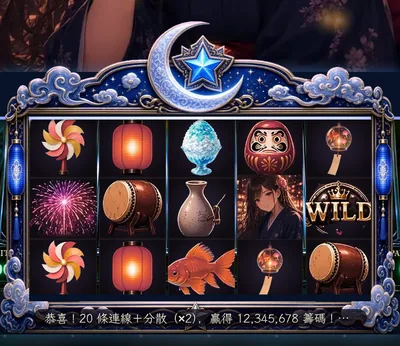
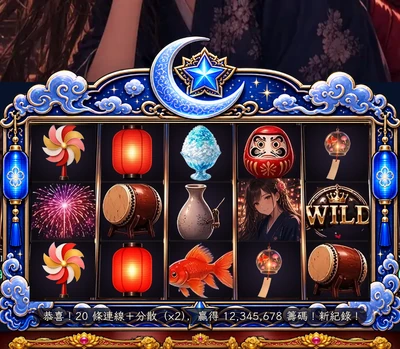
v28.143 真夜中與月光外框改為等比縮放裁切（不拉伸）

diff --git a/sw.js b/sw.js
@@ -1,6 +1,6 @@
 /* 龍運金殿 service worker — v2851 */
-const V='dfp-v28142';
-const CORE=['./','index.html','lobby2840.css?v=28131','lobby2841.css?v=2841','lobby2842.css?v=28133','act2848.css?v=2850','lobby2840.js?v=28133','av2877.css?v=28107','av2877.js?v=28107','assets/lx/bg.webp?v=2841','assets/fonts/lxserif.woff2?v=28117','dsfx.js?v=2854','gal266.css?v=266','gal266.js?v=267','logo262.css?v=264','lobby260.css?v=265','mq257.css?v=258','mq257.js?v=258','offline.html','privacy.html','store.js?v=2854','rm.js?v=256','life.js?v=256','age.js?v=286','settings.js?v=28142','feat28123.css?v=28127','assets/featgold/btn-wide.webp?v=28127','assets/featgold/stage-lip.webp?v=28127','assets/featgold/stage-fill.webp?v=28127','assets/featgold/panel.webp?v=28127','assets/featgold/rail-h.webp?v=28127','lb28111.css?v=28114','lb28111.js?v=28114','assets/lx/medal1.webp?v=28114','assets/lx/medal2.webp?v=28114','assets/lx/medal3.webp?v=28114','nick28112.css?v=28112','nick28112.js?v=28112','chat28117.css?v=28117','chat28117.js?v=28117','assets/chat/ico_horn.webp?v=28117','perf2887.js?v=2888','perf2887.css?v=2887','fx2888.css?v=2888','plaque28109.css?v=28128','bar28110.css?v=28110','ad2880.css?v=2880','ad2880.js?v=28101','menu2880.css?v=2884','menu2880.js?v=2881','deck2883.css?v=2883','deck2884.css?v=28128','deck2885.css?v=2885','deck2886.css?v=28118','assets/deck/skins/gold/btn-round.webp?v=2886','assets/ui/ico-home.svg?v=2884','assets/ui/ico-menu.svg?v=2884','assets/deck/skins/gold/frame.webp?v=2887','assets/deck/skins/gold/fill.webp?v=2884','assets/deck/skins/gold/crest.webp?v=2887','assets/deck/skins/gold/plaque.webp?v=2887','assets/deck/skins/gold/plaque-bet.webp?v=28128','toast2873.css?v=28115','ach2874.css?v=2898','ach2874.js?v=2882','assets/lx/ach_spin.svg?v=2875','assets/lx/ach_win.svg?v=2875','assets/lx/ach_mach.svg?v=2875','assets/lx/ach_feat.svg?v=2875','assets/lx/ach_lv.svg?v=2875','assets/lx/ach_frame.svg?v=2875','assets/lx/ach_ring.svg?v=2875','dfpvol.css?v=2854','dfpvol.js?v=2854','skinshop.css?v=2865','frame.css?v=2839','frame2844.css?v=2844','frame2846.css?v=2846','frame28134.css?v=28142','sym2847.css?v=2847','skinshop.js?v=28142','load285.css?v=285','load286.css?v=286','load287.css?v=287','load288.css?v=288','load289.css?v=289','load2810.css?v=2810','load2811.css?v=2811','juice.css?v=2859','juice.js?v=28116','featsfx.js?v=28120','amb2851.css?v=2851','amb2851.js?v=2888','tap272.css?v=272','hint.js?v=2840','social2826.css?v=28102','fb2868.js?v=28117','social2826.js?v=28112','week2827.css?v=28100','week2827.js?v=28100','inv2828.css?v=2891','inv2828.js?v=2891','raid2829.css?v=2882','raid2829.js?v=2882','guild2833.css?v=2869','guild2833.js?v=2882','share2832.css?v=2832','share2832.js?v=2832','back.js?v=256','manifest.webmanifest','assets/fx/tw-plaque.webp?v=2858','assets/logo21.webp','assets/lobby/logo22.webp?v=256','assets/lobby/logo22_soft.webp?v=287','assets/og287.webp?v=287','assets/lobby/navbar.webp?v=256','assets/lobby/medal.webp?v=256','assets/icons/icon-192.png','assets/lobby/bg.webp?v=256','matsuri-ui.css?v=28135','samurai-ui.css?v=28135','neko-ui.css?v=28135','sakura-ui.css?v=28135','matsuri-game.js?v=28134','samurai-game.js?v=28134','neko-game.js?v=28134','sakura-game.js?v=28134','feat.css?v=28129','feat.js?v=28129','assets/featgold/plinko/plq-sakura-100.webp?v=28129','assets/featgold/plinko/plq-sakura-25.webp?v=28129','assets/featgold/plinko/plq-sakura-8.webp?v=28129','assets/featgold/plinko/plq-sakura-low.webp?v=28129','assets/featgold/plinko/plq-neko-100.webp?v=28129','assets/featgold/plinko/plq-neko-25.webp?v=28129','assets/featgold/plinko/plq-neko-8.webp?v=28129','assets/featgold/plinko/plq-neko-low.webp?v=28129','assets/featgold/plinko/plq-samurai-100.webp?v=28129','assets/featgold/plinko/plq-samurai-25.webp?v=28129','assets/featgold/plinko/plq-samurai-8.webp?v=28129','assets/featgold/plinko/plq-samurai-low.webp?v=28129','assets/featgold/plinko/plq-matsuri-100.webp?v=28129','assets/featgold/plinko/plq-matsuri-25.webp?v=28129','assets/featgold/plinko/plq-matsuri-8.webp?v=28129','assets/featgold/plinko/plq-matsuri-low.webp?v=28129','assets/reelbg/bg-sakura.webp?v=28130','assets/reelbg/bg-neko.webp?v=28130','assets/reelbg/bg-samurai.webp?v=28130','assets/reelbg/bg-matsuri.webp?v=28130','assets/reelbg/frame-sakura.webp?v=28135','assets/reelbg/frame-neko.webp?v=28135','assets/reelbg/frame-samurai.webp?v=28135','assets/reelbg/frame-matsuri.webp?v=28135'];
+const V='dfp-v28143';
+const CORE=['./','index.html','lobby2840.css?v=28131','lobby2841.css?v=2841','lobby2842.css?v=28133','act2848.css?v=2850','lobby2840.js?v=28133','av2877.css?v=28107','av2877.js?v=28107','assets/lx/bg.webp?v=2841','assets/fonts/lxserif.woff2?v=28117','dsfx.js?v=2854','gal266.css?v=266','gal266.js?v=267','logo262.css?v=264','lobby260.css?v=265','mq257.css?v=258','mq257.js?v=258','offline.html','privacy.html','store.js?v=2854','rm.js?v=256','life.js?v=256','age.js?v=286','settings.js?v=28143','feat28123.css?v=28127','assets/featgold/btn-wide.webp?v=28127','assets/featgold/stage-lip.webp?v=28127','assets/featgold/stage-fill.webp?v=28127','assets/featgold/panel.webp?v=28127','assets/featgold/rail-h.webp?v=28127','lb28111.css?v=28114','lb28111.js?v=28114','assets/lx/medal1.webp?v=28114','assets/lx/medal2.webp?v=28114','assets/lx/medal3.webp?v=28114','nick28112.css?v=28112','nick28112.js?v=28112','chat28117.css?v=28117','chat28117.js?v=28117','assets/chat/ico_horn.webp?v=28117','perf2887.js?v=2888','perf2887.css?v=2887','fx2888.css?v=2888','plaque28109.css?v=28128','bar28110.css?v=28110','ad2880.css?v=2880','ad2880.js?v=28101','menu2880.css?v=2884','menu2880.js?v=2881','deck2883.css?v=2883','deck2884.css?v=28128','deck2885.css?v=2885','deck2886.css?v=28118','assets/deck/skins/gold/btn-round.webp?v=2886','assets/ui/ico-home.svg?v=2884','assets/ui/ico-menu.svg?v=2884','assets/deck/skins/gold/frame.webp?v=2887','assets/deck/skins/gold/fill.webp?v=2884','assets/deck/skins/gold/crest.webp?v=2887','assets/deck/skins/gold/plaque.webp?v=2887','assets/deck/skins/gold/plaque-bet.webp?v=28128','toast2873.css?v=28115','ach2874.css?v=2898','ach2874.js?v=2882','assets/lx/ach_spin.svg?v=2875','assets/lx/ach_win.svg?v=2875','assets/lx/ach_mach.svg?v=2875','assets/lx/ach_feat.svg?v=2875','assets/lx/ach_lv.svg?v=2875','assets/lx/ach_frame.svg?v=2875','assets/lx/ach_ring.svg?v=2875','dfpvol.css?v=2854','dfpvol.js?v=2854','skinshop.css?v=2865','frame.css?v=2839','frame2844.css?v=2844','frame2846.css?v=2846','frame28134.css?v=28143','sym2847.css?v=2847','skinshop.js?v=28143','load285.css?v=285','load286.css?v=286','load287.css?v=287','load288.css?v=288','load289.css?v=289','load2810.css?v=2810','load2811.css?v=2811','juice.css?v=2859','juice.js?v=28116','featsfx.js?v=28120','amb2851.css?v=2851','amb2851.js?v=2888','tap272.css?v=272','hint.js?v=2840','social2826.css?v=28102','fb2868.js?v=28117','social2826.js?v=28112','week2827.css?v=28100','week2827.js?v=28100','inv2828.css?v=2891','inv2828.js?v=2891','raid2829.css?v=2882','raid2829.js?v=2882','guild2833.css?v=2869','guild2833.js?v=2882','share2832.css?v=2832','share2832.js?v=2832','back.js?v=256','manifest.webmanifest','assets/fx/tw-plaque.webp?v=2858','assets/logo21.webp','assets/lobby/logo22.webp?v=256','assets/lobby/logo22_soft.webp?v=287','assets/og287.webp?v=287','assets/lobby/navbar.webp?v=256','assets/lobby/medal.webp?v=256','assets/icons/icon-192.png','assets/lobby/bg.webp?v=256','matsuri-ui.css?v=28135','samurai-ui.css?v=28135','neko-ui.css?v=28135','sakura-ui.css?v=28135','matsuri-game.js?v=28134','samurai-game.js?v=28134','neko-game.js?v=28134','sakura-game.js?v=28134','feat.css?v=28129','feat.js?v=28129','assets/featgold/plinko/plq-sakura-100.webp?v=28129','assets/featgold/plinko/plq-sakura-25.webp?v=28129','assets/featgold/plinko/plq-sakura-8.webp?v=28129','assets/featgold/plinko/plq-sakura-low.webp?v=28129','assets/featgold/plinko/plq-neko-100.webp?v=28129','assets/featgold/plinko/plq-neko-25.webp?v=28129','assets/featgold/plinko/plq-neko-8.webp?v=28129','assets/featgold/plinko/plq-neko-low.webp?v=28129','assets/featgold/plinko/plq-samurai-100.webp?v=28129','assets/featgold/plinko/plq-samurai-25.webp?v=28129','assets/featgold/plinko/plq-samurai-8.webp?v=28129','assets/featgold/plinko/plq-samurai-low.webp?v=28129','assets/featgold/plinko/plq-matsuri-100.webp?v=28129','assets/featgold/plinko/plq-matsuri-25.webp?v=28129','assets/featgold/plinko/plq-matsuri-8.webp?v=28129','assets/featgold/plinko/plq-matsuri-low.webp?v=28129','assets/reelbg/bg-sakura.webp?v=28130','assets/reelbg/bg-neko.webp?v=28130','assets/reelbg/bg-samurai.webp?v=28130','assets/reelbg/bg-matsuri.webp?v=28130','assets/reelbg/frame-sakura.webp?v=28135','assets/reelbg/frame-neko.webp?v=28135','assets/reelbg/frame-samurai.webp?v=28135','assets/reelbg/frame-matsuri.webp?v=28135'];
 self.addEventListener('install',e=>{e.waitUntil(caches.open(V).then(c=>c.addAll(CORE)).then(()=>self.skipWaiting()))});
 self.addEventListener('activate',e=>{e.waitUntil(caches.keys().then(ks=>Promise.all(ks.filter(k=>k.startsWith('dfp-')&&k!==V).map(k=>caches.delete(k)))).then(()=>self.clients.claim()))});
 self.addEventListener('fetch',e=>{

diff --git a/matsuri.html b/matsuri.html
@@ -100,6 +100,6 @@ document.addEventListener('click',e=>{if(document.body.classList.contains('menu1
 $('menu16').addEventListener('click',e=>{if(e.target.closest('button')&&!e.target.closest('#soundBtn')&&!e.target.closest('.dfpVol')&&!e.target.closest('#setBtn')&&!e.target.closest('#vibBtn')&&!e.target.closest('#rmBtn')){document.body.classList.remove('menu16');mb.setAttribute('aria-expanded',false)}});
 const fit=el=>{const l=String(el.textContent).length;if(el.dataset.l!=l)el.dataset.l=l};['bal','win'].forEach(id=>{const el=$(id);fit(el);new MutationObserver(()=>fit(el)).observe(el,{childList:true,characterData:true,subtree:true})})})()</script><script>window.CZM={"id": "matsuri", "name": "夏祭花火", "buy": 15.5, "rtp": 94.02, "buyRtp": 93.75, "fsm": 2}</script><script>CZM.who="夏美";CZM.voice={"yokoku": ["煙火好像要升空了…！", "祭典的預感！"], "reach": ["機會來了！金魚拜託了！", "就差一個！"], "hot": ["大煙火要來了！！", "祭典要高潮了！"], "win": ["好美的煙火〜！", "太好了！"], "lose": ["期待下一發煙火！", "好可惜〜"], "kakutei": ["大獎煙火，確定！！"]}</script><script src="casino.js?v=28122"></script><script src="gallery.js?v=2897"></script><script src="minigame.js?v=2815"></script><script src="enshutsu.js?v=2853"></script><script src="czaudio.js?v=28116"></script><script src="featsfx.js?v=28120"></script><script src="czfit.js?v=2888"></script><link rel="stylesheet" href="juice.css?v=2859"><script src="juice.js?v=28116"></script><link rel="stylesheet" href="amb2851.css?v=2851"><script src="amb2851.js?v=2888"></script><link rel="stylesheet" href="holdspin.css?v=2823"><script src="holdspin.js?v=28127"></script><link rel="stylesheet" href="av.css?v=2863"><script src="av.js?v=28116"></script><link rel="stylesheet" href="feat.css?v=28129"><script src="fxlite.js?v=28121"></script><script src="feat.js?v=28129"></script><link rel="stylesheet" href="life21.css?v=256"><link rel="stylesheet" href="ui21.css?v=256"><script src="ui21.js?v=28116"></script><link rel="stylesheet" href="win21.css?v=2814"><script src="win21.js?v=2888"></script><link rel="stylesheet" href="bonus22.css?v=2814"><script src="bonus22.js?v=28127"></script><link rel="stylesheet" href="reel21.css?v=2865">
 <link rel="stylesheet" href="holdspin2813.css?v=2813"><link rel="stylesheet" href="holdspin2814.css?v=2814"><link rel="stylesheet" href="holdspin2816.css?v=2816"><link rel="stylesheet" href="holdspin2817.css?v=2817"><link rel="stylesheet" href="holdspin2818.css?v=2818"><link rel="stylesheet" href="fxlite.css?v=28121">
-<link rel="stylesheet" href="feat28123.css?v=28127"><link rel="preload" as="image" href="assets/featgold/stage-lip.webp?v=28127" type="image/webp"><link rel="preload" as="image" href="assets/featgold/stage-fill.webp?v=28127" type="image/webp"><link rel="preload" as="image" href="assets/featgold/panel.webp?v=28127" type="image/webp"><link rel="preload" as="image" href="assets/featgold/btn-wide.webp?v=28127" type="image/webp"><link rel="preload" as="image" href="assets/featgold/plinko/plq-matsuri-100.webp?v=28129" type="image/webp"><link rel="preload" as="image" href="assets/featgold/plinko/plq-matsuri-25.webp?v=28129" type="image/webp"><link rel="preload" as="image" href="assets/featgold/plinko/plq-matsuri-8.webp?v=28129" type="image/webp"><link rel="preload" as="image" href="assets/featgold/plinko/plq-matsuri-low.webp?v=28129" type="image/webp"><script src="reel21.js?v=2823"></script><link rel="stylesheet" href="pose21.css?v=256"><script src="pose21.js?v=256"></script><link rel="stylesheet" href="bolt22.css?v=281"><script src="bolt22.js?v=2888"></script><link rel="stylesheet" href="skinshop.css?v=2865"><link rel="stylesheet" href="frame.css?v=2839"><link rel="stylesheet" href="frame2844.css?v=2844"><link rel="stylesheet" href="frame2846.css?v=2846"><link rel="stylesheet" href="frame28134.css?v=28142"><link rel="stylesheet" href="sym2847.css?v=2847"><script src="skinshop.js?v=28142"></script><link rel="stylesheet" href="dfpvol.css?v=2854"><script src="dfpvol.js?v=2854"></script><script src="settings.js?v=28142"></script><script src="ad2880.js?v=28101"></script><script src="menu2880.js?v=2881"></script><script src="lowbal.js?v=2880"></script><link rel="stylesheet" href="share2832.css?v=2832"><script src="share2832.js?v=2832"></script>
+<link rel="stylesheet" href="feat28123.css?v=28127"><link rel="preload" as="image" href="assets/featgold/stage-lip.webp?v=28127" type="image/webp"><link rel="preload" as="image" href="assets/featgold/stage-fill.webp?v=28127" type="image/webp"><link rel="preload" as="image" href="assets/featgold/panel.webp?v=28127" type="image/webp"><link rel="preload" as="image" href="assets/featgold/btn-wide.webp?v=28127" type="image/webp"><link rel="preload" as="image" href="assets/featgold/plinko/plq-matsuri-100.webp?v=28129" type="image/webp"><link rel="preload" as="image" href="assets/featgold/plinko/plq-matsuri-25.webp?v=28129" type="image/webp"><link rel="preload" as="image" href="assets/featgold/plinko/plq-matsuri-8.webp?v=28129" type="image/webp"><link rel="preload" as="image" href="assets/featgold/plinko/plq-matsuri-low.webp?v=28129" type="image/webp"><script src="reel21.js?v=2823"></script><link rel="stylesheet" href="pose21.css?v=256"><script src="pose21.js?v=256"></script><link rel="stylesheet" href="bolt22.css?v=281"><script src="bolt22.js?v=2888"></script><link rel="stylesheet" href="skinshop.css?v=2865"><link rel="stylesheet" href="frame.css?v=2839"><link rel="stylesheet" href="frame2844.css?v=2844"><link rel="stylesheet" href="frame2846.css?v=2846"><link rel="stylesheet" href="frame28134.css?v=28143"><link rel="stylesheet" href="sym2847.css?v=2847"><script src="skinshop.js?v=28143"></script><link rel="stylesheet" href="dfpvol.css?v=2854"><script src="dfpvol.js?v=2854"></script><script src="settings.js?v=28143"></script><script src="ad2880.js?v=28101"></script><script src="menu2880.js?v=2881"></script><script src="lowbal.js?v=2880"></script><link rel="stylesheet" href="share2832.css?v=2832"><script src="share2832.js?v=2832"></script>
 <script src="nick28112.js?v=28112"></script><link rel="stylesheet" href="tap272.css?v=272"><link rel="stylesheet" href="perf2887.css?v=2887"><link rel="stylesheet" href="fx2888.css?v=28108"><link rel="stylesheet" href="plaque28109.css?v=28128"><link rel="stylesheet" href="bar28110.css?v=28110">
 <script>if("serviceWorker"in navigator)addEventListener("load",function(){navigator.serviceWorker.register("sw.js").catch(function(){})})</script></body></html>

diff --git a/samurai.html b/samurai.html
@@ -101,6 +101,6 @@ document.addEventListener('click',e=>{if(document.body.classList.contains('menu1
 $('menu16').addEventListener('click',e=>{if(e.target.closest('button')&&!e.target.closest('#soundBtn')&&!e.target.closest('.dfpVol')&&!e.target.closest('#setBtn')&&!e.target.closest('#vibBtn')&&!e.target.closest('#rmBtn')){document.body.classList.remove('menu16');mb.setAttribute('aria-expanded',false)}});
 const fit=el=>{const l=String(el.textContent).length;if(el.dataset.l!=l)el.dataset.l=l};['bal','win'].forEach(id=>{const el=$(id);fit(el);new MutationObserver(()=>fit(el)).observe(el,{childList:true,characterData:true,subtree:true})})})()</script><script>window.CZM={"id": "samurai", "name": "天下布武", "buy": 21.3, "rtp": 93.94, "buyRtp": 94.16, "fsm": 3}</script><script>CZM.who="信長";CZM.voice={"yokoku": ["…有種預感", "風向變了"], "reach": ["機會來了！斬開血路！", "再一刀！"], "hot": ["天下就在眼前！！", "氣勢上來了！"], "win": ["見事！", "高呼勝利吧！"], "lose": ["尚未結束", "準備下一場戰鬥"], "kakutei": ["天下布武、確定！！"]}</script><script src="casino.js?v=28122"></script><script src="gallery.js?v=2897"></script><script src="minigame.js?v=2815"></script><script src="enshutsu.js?v=2853"></script><script src="czaudio.js?v=28116"></script><script src="featsfx.js?v=28120"></script><script src="czfit.js?v=2888"></script><link rel="stylesheet" href="juice.css?v=2859"><script src="juice.js?v=28116"></script><link rel="stylesheet" href="amb2851.css?v=2851"><script src="amb2851.js?v=2888"></script><link rel="stylesheet" href="holdspin.css?v=2823"><script src="holdspin.js?v=28127"></script><link rel="stylesheet" href="av.css?v=2863"><script src="av.js?v=28116"></script><link rel="stylesheet" href="feat.css?v=28129"><script src="fxlite.js?v=28121"></script><script src="feat.js?v=28129"></script><link rel="stylesheet" href="life21.css?v=256"><link rel="stylesheet" href="ui21.css?v=256"><script src="ui21.js?v=28116"></script><link rel="stylesheet" href="win21.css?v=2814"><script src="win21.js?v=2888"></script><link rel="stylesheet" href="bonus22.css?v=2814"><script src="bonus22.js?v=28127"></script><link rel="stylesheet" href="reel21.css?v=2865">
 <link rel="stylesheet" href="holdspin2813.css?v=2813"><link rel="stylesheet" href="holdspin2814.css?v=2814"><link rel="stylesheet" href="holdspin2816.css?v=2816"><link rel="stylesheet" href="holdspin2817.css?v=2817"><link rel="stylesheet" href="holdspin2818.css?v=2818"><link rel="stylesheet" href="fxlite.css?v=28121">
-<link rel="stylesheet" href="feat28123.css?v=28127"><link rel="preload" as="image" href="assets/featgold/stage-lip.webp?v=28127" type="image/webp"><link rel="preload" as="image" href="assets/featgold/stage-fill.webp?v=28127" type="image/webp"><link rel="preload" as="image" href="assets/featgold/panel.webp?v=28127" type="image/webp"><link rel="preload" as="image" href="assets/featgold/btn-wide.webp?v=28127" type="image/webp"><link rel="preload" as="image" href="assets/featgold/plinko/plq-samurai-100.webp?v=28129" type="image/webp"><link rel="preload" as="image" href="assets/featgold/plinko/plq-samurai-25.webp?v=28129" type="image/webp"><link rel="preload" as="image" href="assets/featgold/plinko/plq-samurai-8.webp?v=28129" type="image/webp"><link rel="preload" as="image" href="assets/featgold/plinko/plq-samurai-low.webp?v=28129" type="image/webp"><script src="reel21.js?v=2823"></script><link rel="stylesheet" href="pose21.css?v=256"><script src="pose21.js?v=256"></script><link rel="stylesheet" href="bolt22.css?v=281"><script src="bolt22.js?v=2888"></script><link rel="stylesheet" href="skinshop.css?v=2865"><link rel="stylesheet" href="frame.css?v=2839"><link rel="stylesheet" href="frame2844.css?v=2844"><link rel="stylesheet" href="frame2846.css?v=2846"><link rel="stylesheet" href="frame28134.css?v=28142"><link rel="stylesheet" href="sym2847.css?v=2847"><script src="skinshop.js?v=28142"></script><link rel="stylesheet" href="dfpvol.css?v=2854"><script src="dfpvol.js?v=2854"></script><script src="settings.js?v=28142"></script><script src="ad2880.js?v=28101"></script><script src="menu2880.js?v=2881"></script><script src="lowbal.js?v=2880"></script><link rel="stylesheet" href="share2832.css?v=2832"><script src="share2832.js?v=2832"></script>
+<link rel="stylesheet" href="feat28123.css?v=28127"><link rel="preload" as="image" href="assets/featgold/stage-lip.webp?v=28127" type="image/webp"><link rel="preload" as="image" href="assets/featgold/stage-fill.webp?v=28127" type="image/webp"><link rel="preload" as="image" href="assets/featgold/panel.webp?v=28127" type="image/webp"><link rel="preload" as="image" href="assets/featgold/btn-wide.webp?v=28127" type="image/webp"><link rel="preload" as="image" href="assets/featgold/plinko/plq-samurai-100.webp?v=28129" type="image/webp"><link rel="preload" as="image" href="assets/featgold/plinko/plq-samurai-25.webp?v=28129" type="image/webp"><link rel="preload" as="image" href="assets/featgold/plinko/plq-samurai-8.webp?v=28129" type="image/webp"><link rel="preload" as="image" href="assets/featgold/plinko/plq-samurai-low.webp?v=28129" type="image/webp"><script src="reel21.js?v=2823"></script><link rel="stylesheet" href="pose21.css?v=256"><script src="pose21.js?v=256"></script><link rel="stylesheet" href="bolt22.css?v=281"><script src="bolt22.js?v=2888"></script><link rel="stylesheet" href="skinshop.css?v=2865"><link rel="stylesheet" href="frame.css?v=2839"><link rel="stylesheet" href="frame2844.css?v=2844"><link rel="stylesheet" href="frame2846.css?v=2846"><link rel="stylesheet" href="frame28134.css?v=28143"><link rel="stylesheet" href="sym2847.css?v=2847"><script src="skinshop.js?v=28143"></script><link rel="stylesheet" href="dfpvol.css?v=2854"><script src="dfpvol.js?v=2854"></script><script src="settings.js?v=28143"></script><script src="ad2880.js?v=28101"></script><script src="menu2880.js?v=2881"></script><script src="lowbal.js?v=2880"></script><link rel="stylesheet" href="share2832.css?v=2832"><script src="share2832.js?v=2832"></script>
 <script src="nick28112.js?v=28112"></script><link rel="stylesheet" href="tap272.css?v=272"><link rel="stylesheet" href="perf2887.css?v=2887"><link rel="stylesheet" href="fx2888.css?v=28108"><link rel="stylesheet" href="plaque28109.css?v=28128"><link rel="stylesheet" href="bar28110.css?v=28110">
 <script>if("serviceWorker"in navigator)addEventListener("load",function(){navigator.serviceWorker.register("sw.js").catch(function(){})})</script></body></html>

diff --git a/sakura.html b/sakura.html
@@ -101,6 +101,6 @@ document.addEventListener('click',e=>{if(document.body.classList.contains('menu1
 $('menu16').addEventListener('click',e=>{if(e.target.closest('button')&&!e.target.closest('#soundBtn')&&!e.target.closest('.dfpVol')&&!e.target.closest('#setBtn')&&!e.target.closest('#vibBtn')&&!e.target.closest('#rmBtn')){document.body.classList.remove('menu16');mb.setAttribute('aria-expanded',false)}});
 const fit=el=>{const l=String(el.textContent).length;if(el.dataset.l!=l)el.dataset.l=l};['bal','win'].forEach(id=>{const el=$(id);fit(el);new MutationObserver(()=>fit(el)).observe(el,{childList:true,characterData:true,subtree:true})})})()</script><script>window.CZM={"id": "sakura", "name": "櫻花斬", "buy": 21.5, "rtp": 94.06, "buyRtp": 94.2, "fsm": 3}</script><script>CZM.who="櫻";CZM.voice={"yokoku": ["…櫻花在騷動", "出刀的時刻到了"], "reach": ["機會來了！一閃定勝負！", "就差一個…！"], "hot": ["繚亂之刻！！", "這一刀賭上一切！"], "win": ["斬斷了！", "漂亮的一閃"], "lose": ["還不會凋零", "下次一定斬"], "kakutei": ["櫻花斬、確定！！"]}</script><script src="casino.js?v=28122"></script><script src="gallery.js?v=2897"></script><script src="minigame.js?v=2815"></script><script src="enshutsu.js?v=2853"></script><script src="czaudio.js?v=28116"></script><script src="featsfx.js?v=28120"></script><script src="czfit.js?v=2888"></script><link rel="stylesheet" href="juice.css?v=2859"><script src="juice.js?v=28116"></script><link rel="stylesheet" href="amb2851.css?v=2851"><script src="amb2851.js?v=2888"></script><link rel="stylesheet" href="holdspin.css?v=2823"><script src="holdspin.js?v=28127"></script><link rel="stylesheet" href="av.css?v=2863"><script src="av.js?v=28116"></script><link rel="stylesheet" href="feat.css?v=28129"><script src="fxlite.js?v=28121"></script><script src="feat.js?v=28129"></script><link rel="stylesheet" href="life21.css?v=256"><link rel="stylesheet" href="ui21.css?v=256"><script src="ui21.js?v=28116"></script><link rel="stylesheet" href="win21.css?v=2814"><script src="win21.js?v=2888"></script><link rel="stylesheet" href="bonus22.css?v=2814"><script src="bonus22.js?v=28127"></script><link rel="stylesheet" href="reel21.css?v=2865">
 <link rel="stylesheet" href="holdspin2813.css?v=2813"><link rel="stylesheet" href="holdspin2814.css?v=2814"><link rel="stylesheet" href="holdspin2816.css?v=2816"><link rel="stylesheet" href="holdspin2817.css?v=2817"><link rel="stylesheet" href="holdspin2818.css?v=2818"><link rel="stylesheet" href="fxlite.css?v=28121">
-<link rel="stylesheet" href="feat28123.css?v=28127"><link rel="preload" as="image" href="assets/featgold/stage-lip.webp?v=28127" type="image/webp"><link rel="preload" as="image" href="assets/featgold/stage-fill.webp?v=28127" type="image/webp"><link rel="preload" as="image" href="assets/featgold/panel.webp?v=28127" type="image/webp"><link rel="preload" as="image" href="assets/featgold/btn-wide.webp?v=28127" type="image/webp"><link rel="preload" as="image" href="assets/featgold/plinko/plq-sakura-100.webp?v=28129" type="image/webp"><link rel="preload" as="image" href="assets/featgold/plinko/plq-sakura-25.webp?v=28129" type="image/webp"><link rel="preload" as="image" href="assets/featgold/plinko/plq-sakura-8.webp?v=28129" type="image/webp"><link rel="preload" as="image" href="assets/featgold/plinko/plq-sakura-low.webp?v=28129" type="image/webp"><script src="reel21.js?v=2823"></script><link rel="stylesheet" href="pose21.css?v=256"><script src="pose21.js?v=256"></script><link rel="stylesheet" href="bolt22.css?v=281"><script src="bolt22.js?v=2888"></script><link rel="stylesheet" href="skinshop.css?v=2865"><link rel="stylesheet" href="frame.css?v=2839"><link rel="stylesheet" href="frame2844.css?v=2844"><link rel="stylesheet" href="frame2846.css?v=2846"><link rel="stylesheet" href="frame28134.css?v=28142"><link rel="stylesheet" href="sym2847.css?v=2847"><script src="skinshop.js?v=28142"></script><link rel="stylesheet" href="dfpvol.css?v=2854"><script src="dfpvol.js?v=2854"></script><script src="settings.js?v=28142"></script><script src="ad2880.js?v=28101"></script><script src="menu2880.js?v=2881"></script><script src="lowbal.js?v=2880"></script><link rel="stylesheet" href="share2832.css?v=2832"><script src="share2832.js?v=2832"></script>
+<link rel="stylesheet" href="feat28123.css?v=28127"><link rel="preload" as="image" href="assets/featgold/stage-lip.webp?v=28127" type="image/webp"><link rel="preload" as="image" href="assets/featgold/stage-fill.webp?v=28127" type="image/webp"><link rel="preload" as="image" href="assets/featgold/panel.webp?v=28127" type="image/webp"><link rel="preload" as="image" href="assets/featgold/btn-wide.webp?v=28127" type="image/webp"><link rel="preload" as="image" href="assets/featgold/plinko/plq-sakura-100.webp?v=28129" type="image/webp"><link rel="preload" as="image" href="assets/featgold/plinko/plq-sakura-25.webp?v=28129" type="image/webp"><link rel="preload" as="image" href="assets/featgold/plinko/plq-sakura-8.webp?v=28129" type="image/webp"><link rel="preload" as="image" href="assets/featgold/plinko/plq-sakura-low.webp?v=28129" type="image/webp"><script src="reel21.js?v=2823"></script><link rel="stylesheet" href="pose21.css?v=256"><script src="pose21.js?v=256"></script><link rel="stylesheet" href="bolt22.css?v=281"><script src="bolt22.js?v=2888"></script><link rel="stylesheet" href="skinshop.css?v=2865"><link rel="stylesheet" href="frame.css?v=2839"><link rel="stylesheet" href="frame2844.css?v=2844"><link rel="stylesheet" href="frame2846.css?v=2846"><link rel="stylesheet" href="frame28134.css?v=28143"><link rel="stylesheet" href="sym2847.css?v=2847"><script src="skinshop.js?v=28143"></script><link rel="stylesheet" href="dfpvol.css?v=2854"><script src="dfpvol.js?v=2854"></script><script src="settings.js?v=28143"></script><script src="ad2880.js?v=28101"></script><script src="menu2880.js?v=2881"></script><script src="lowbal.js?v=2880"></script><link rel="stylesheet" href="share2832.css?v=2832"><script src="share2832.js?v=2832"></script>
 <script src="nick28112.js?v=28112"></script><link rel="stylesheet" href="tap272.css?v=272"><link rel="stylesheet" href="perf2887.css?v=2887"><link rel="stylesheet" href="fx2888.css?v=28108"><link rel="stylesheet" href="plaque28109.css?v=28128"><link rel="stylesheet" href="bar28110.css?v=28110">
 <script>if("serviceWorker"in navigator)addEventListener("load",function(){navigator.serviceWorker.register("sw.js").catch(function(){})})</script></body></html>

diff --git a/neko.html b/neko.html
@@ -101,6 +101,6 @@ document.addEventListener('click',e=>{if(document.body.classList.contains('menu1
 $('menu16').addEventListener('click',e=>{if(e.target.closest('button')&&!e.target.closest('#soundBtn')&&!e.target.closest('.dfpVol')&&!e.target.closest('#setBtn')&&!e.target.closest('#vibBtn')&&!e.target.closest('#rmBtn')){document.body.classList.remove('menu16');mb.setAttribute('aria-expanded',false)}});
 const fit=el=>{const l=String(el.textContent).length;if(el.dataset.l!=l)el.dataset.l=l};['bal','win'].forEach(id=>{const el=$(id);fit(el);new MutationObserver(()=>fit(el)).observe(el,{childList:true,characterData:true,subtree:true})})})()</script><script>window.CZM={"id": "neko", "name": "招財大作戰", "buy": 15.4, "rtp": 93.98, "buyRtp": 94.3, "fsm": 2}</script><script>CZM.who="招財喵";CZM.voice={"yokoku": ["喵？有好預感～", "鈴鐺響了！"], "reach": ["機會來了喵！", "再一個就好！"], "hot": ["好運要來了喵！", "金幣要來了！"], "win": ["喵～發財了！", "好運連連！"], "lose": ["下次一定喵", "別灰心喵～"], "kakutei": ["大獎確定喵！！"]}</script><script src="casino.js?v=28122"></script><script src="gallery.js?v=2897"></script><script src="minigame.js?v=2815"></script><script src="enshutsu.js?v=2853"></script><script src="czaudio.js?v=28116"></script><script src="featsfx.js?v=28120"></script><script src="czfit.js?v=2888"></script><link rel="stylesheet" href="juice.css?v=2859"><script src="juice.js?v=28116"></script><link rel="stylesheet" href="amb2851.css?v=2851"><script src="amb2851.js?v=2888"></script><link rel="stylesheet" href="holdspin.css?v=2823"><script src="holdspin.js?v=28127"></script><link rel="stylesheet" href="av.css?v=2863"><script src="av.js?v=28116"></script><link rel="stylesheet" href="feat.css?v=28129"><script src="fxlite.js?v=28121"></script><script src="feat.js?v=28129"></script><link rel="stylesheet" href="life21.css?v=256"><link rel="stylesheet" href="ui21.css?v=256"><script src="ui21.js?v=28116"></script><link rel="stylesheet" href="win21.css?v=2814"><script src="win21.js?v=2888"></script><link rel="stylesheet" href="bonus22.css?v=2814"><script src="bonus22.js?v=28127"></script><link rel="stylesheet" href="reel21.css?v=2865">
 <link rel="stylesheet" href="holdspin2813.css?v=2813"><link rel="stylesheet" href="holdspin2814.css?v=2814"><link rel="stylesheet" href="holdspin2816.css?v=2816"><link rel="stylesheet" href="holdspin2817.css?v=2817"><link rel="stylesheet" href="holdspin2818.css?v=2818"><link rel="stylesheet" href="fxlite.css?v=28121">
-<link rel="stylesheet" href="feat28123.css?v=28127"><link rel="preload" as="image" href="assets/featgold/stage-lip.webp?v=28127" type="image/webp"><link rel="preload" as="image" href="assets/featgold/stage-fill.webp?v=28127" type="image/webp"><link rel="preload" as="image" href="assets/featgold/panel.webp?v=28127" type="image/webp"><link rel="preload" as="image" href="assets/featgold/btn-wide.webp?v=28127" type="image/webp"><link rel="preload" as="image" href="assets/featgold/plinko/plq-neko-100.webp?v=28129" type="image/webp"><link rel="preload" as="image" href="assets/featgold/plinko/plq-neko-25.webp?v=28129" type="image/webp"><link rel="preload" as="image" href="assets/featgold/plinko/plq-neko-8.webp?v=28129" type="image/webp"><link rel="preload" as="image" href="assets/featgold/plinko/plq-neko-low.webp?v=28129" type="image/webp"><script src="reel21.js?v=2823"></script><link rel="stylesheet" href="pose21.css?v=256"><script src="pose21.js?v=256"></script><link rel="stylesheet" href="bolt22.css?v=281"><script src="bolt22.js?v=2888"></script><link rel="stylesheet" href="skinshop.css?v=2865"><link rel="stylesheet" href="frame.css?v=2839"><link rel="stylesheet" href="frame2844.css?v=2844"><link rel="stylesheet" href="frame2846.css?v=2846"><link rel="stylesheet" href="frame28134.css?v=28142"><link rel="stylesheet" href="sym2847.css?v=2847"><script src="skinshop.js?v=28142"></script><link rel="stylesheet" href="dfpvol.css?v=2854"><script src="dfpvol.js?v=2854"></script><script src="settings.js?v=28142"></script><script src="ad2880.js?v=28101"></script><script src="menu2880.js?v=2881"></script><script src="lowbal.js?v=2880"></script><link rel="stylesheet" href="share2832.css?v=2832"><script src="share2832.js?v=2832"></script>
+<link rel="stylesheet" href="feat28123.css?v=28127"><link rel="preload" as="image" href="assets/featgold/stage-lip.webp?v=28127" type="image/webp"><link rel="preload" as="image" href="assets/featgold/stage-fill.webp?v=28127" type="image/webp"><link rel="preload" as="image" href="assets/featgold/panel.webp?v=28127" type="image/webp"><link rel="preload" as="image" href="assets/featgold/btn-wide.webp?v=28127" type="image/webp"><link rel="preload" as="image" href="assets/featgold/plinko/plq-neko-100.webp?v=28129" type="image/webp"><link rel="preload" as="image" href="assets/featgold/plinko/plq-neko-25.webp?v=28129" type="image/webp"><link rel="preload" as="image" href="assets/featgold/plinko/plq-neko-8.webp?v=28129" type="image/webp"><link rel="preload" as="image" href="assets/featgold/plinko/plq-neko-low.webp?v=28129" type="image/webp"><script src="reel21.js?v=2823"></script><link rel="stylesheet" href="pose21.css?v=256"><script src="pose21.js?v=256"></script><link rel="stylesheet" href="bolt22.css?v=281"><script src="bolt22.js?v=2888"></script><link rel="stylesheet" href="skinshop.css?v=2865"><link rel="stylesheet" href="frame.css?v=2839"><link rel="stylesheet" href="frame2844.css?v=2844"><link rel="stylesheet" href="frame2846.css?v=2846"><link rel="stylesheet" href="frame28134.css?v=28143"><link rel="stylesheet" href="sym2847.css?v=2847"><script src="skinshop.js?v=28143"></script><link rel="stylesheet" href="dfpvol.css?v=2854"><script src="dfpvol.js?v=2854"></script><script src="settings.js?v=28143"></script><script src="ad2880.js?v=28101"></script><script src="menu2880.js?v=2881"></script><script src="lowbal.js?v=2880"></script><link rel="stylesheet" href="share2832.css?v=2832"><script src="share2832.js?v=2832"></script>
 <script src="nick28112.js?v=28112"></script><link rel="stylesheet" href="tap272.css?v=272"><link rel="stylesheet" href="perf2887.css?v=2887"><link rel="stylesheet" href="fx2888.css?v=28108"><link rel="stylesheet" href="plaque28109.css?v=28128"><link rel="stylesheet" href="bar28110.css?v=28110">
 <script>if("serviceWorker"in navigator)addEventListener("load",function(){navigator.serviceWorker.register("sw.js").catch(function(){})})</script></body></html>

diff --git a/index.html b/index.html
@@ -225,4 +225,4 @@ refresh();
 for(var i=0;i<4;i++){ph+=g[i]?'<div style="background-image:url('+g[i]+'?v=256)"></div>':'<div class="sil" style="background-image:url(assets/'+S[i]+'/p_idle.webp?v=256)"></div>'}
 var c=document.createElement("a");c.className="card galcard";c.id="bGal";c.setAttribute("role","button");c.tabIndex=0;c.style.cursor="pointer";c.setAttribute("aria-label","角色圖鑑");c.style.setProperty("--i",w.children.length);
 c.innerHTML='<span class="rib">角色收藏</span><div class="gph">'+ph+'</div><div class="meta"><div class="t"><b>角色圖鑑</b><small><span class="tag">已收集 '+n+' / '+T+'</span></small><div class="gbar"><i style="width:'+Math.round(n/T*100)+'%"></i></div></div><span class="play">查看</span></div>';
-c.onclick=function(e){e.preventDefault();e.stopPropagation();CZGAL.open()};c.onkeydown=function(e){if(e.key==="Enter"||e.key===" "){e.preventDefault();CZGAL.open()}};var l=w.querySelector(".card.lock");w.insertBefore(c,l)})()</script><link rel="stylesheet" href="life21.css?v=256"><link rel="stylesheet" href="lobby21.css?v=256"><link rel="stylesheet" href="lobby260.css?v=265"><link rel="stylesheet" href="logo262.css?v=264"><link rel="stylesheet" href="amb2851.css?v=2851"><script src="amb2851.js?v=2888" defer></script><script src="lobby21.js?v=266"></script><link rel="stylesheet" href="tap272.css?v=272"><link rel="stylesheet" href="dfpvol.css?v=2854"><script src="dfpvol.js?v=2854"></script><script src="settings.js?v=28142"></script><script src="hint.js?v=2840"></script><link rel="stylesheet" href="social2826.css?v=28102"><script type="module" src="fb2868.js?v=28117"></script><script src="social2826.js?v=28112"></script><link rel="stylesheet" href="week2827.css?v=28100"><script src="week2827.js?v=28100"></script><link rel="stylesheet" href="inv2828.css?v=2891"><script src="inv2828.js?v=2891"></script><link rel="stylesheet" href="raid2829.css?v=2882"><script src="raid2829.js?v=2882"></script><link rel="stylesheet" href="guild2833.css?v=2869"><script src="guild2833.js?v=2882"></script><link rel="stylesheet" href="lobby2840.css?v=28131"><link rel="stylesheet" href="lobby2841.css?v=2841"><link rel="stylesheet" href="lobby2842.css?v=28133"><link rel="stylesheet" href="act2848.css?v=2850"><link rel="stylesheet" href="toast2873.css?v=28115"><link rel="stylesheet" href="ach2874.css?v=2898"><script src="ach2874.js?v=2882"></script><script src="lobby2840.js?v=28133"></script><link rel="stylesheet" href="av2877.css?v=28107"><script src="av2877.js?v=28107"></script><link rel="stylesheet" href="skinshop.css?v=2865"><link rel="stylesheet" href="perf2887.css?v=2887"><script src="skinshop.js?v=28142"></script><link rel="stylesheet" href="lb28111.css?v=28114"><script src="lb28111.js?v=28114"></script><link rel="stylesheet" href="nick28112.css?v=28112"><script src="nick28112.js?v=28112"></script><link rel="stylesheet" href="chat28117.css?v=28117"><script src="chat28117.js?v=28117"></script><script>if("serviceWorker"in navigator)addEventListener("load",function(){navigator.serviceWorker.register("sw.js").catch(function(){})})</script></body></html>
+c.onclick=function(e){e.preventDefault();e.stopPropagation();CZGAL.open()};c.onkeydown=function(e){if(e.key==="Enter"||e.key===" "){e.preventDefault();CZGAL.open()}};var l=w.querySelector(".card.lock");w.insertBefore(c,l)})()</script><link rel="stylesheet" href="life21.css?v=256"><link rel="stylesheet" href="lobby21.css?v=256"><link rel="stylesheet" href="lobby260.css?v=265"><link rel="stylesheet" href="logo262.css?v=264"><link rel="stylesheet" href="amb2851.css?v=2851"><script src="amb2851.js?v=2888" defer></script><script src="lobby21.js?v=266"></script><link rel="stylesheet" href="tap272.css?v=272"><link rel="stylesheet" href="dfpvol.css?v=2854"><script src="dfpvol.js?v=2854"></script><script src="settings.js?v=28143"></script><script src="hint.js?v=2840"></script><link rel="stylesheet" href="social2826.css?v=28102"><script type="module" src="fb2868.js?v=28117"></script><script src="social2826.js?v=28112"></script><link rel="stylesheet" href="week2827.css?v=28100"><script src="week2827.js?v=28100"></script><link rel="stylesheet" href="inv2828.css?v=2891"><script src="inv2828.js?v=2891"></script><link rel="stylesheet" href="raid2829.css?v=2882"><script src="raid2829.js?v=2882"></script><link rel="stylesheet" href="guild2833.css?v=2869"><script src="guild2833.js?v=2882"></script><link rel="stylesheet" href="lobby2840.css?v=28131"><link rel="stylesheet" href="lobby2841.css?v=2841"><link rel="stylesheet" href="lobby2842.css?v=28133"><link rel="stylesheet" href="act2848.css?v=2850"><link rel="stylesheet" href="toast2873.css?v=28115"><link rel="stylesheet" href="ach2874.css?v=2898"><script src="ach2874.js?v=2882"></script><script src="lobby2840.js?v=28133"></script><link rel="stylesheet" href="av2877.css?v=28107"><script src="av2877.js?v=28107"></script><link rel="stylesheet" href="skinshop.css?v=2865"><link rel="stylesheet" href="perf2887.css?v=2887"><script src="skinshop.js?v=28143"></script><link rel="stylesheet" href="lb28111.css?v=28114"><script src="lb28111.js?v=28114"></script><link rel="stylesheet" href="nick28112.css?v=28112"><script src="nick28112.js?v=28112"></script><link rel="stylesheet" href="chat28117.css?v=28117"><script src="chat28117.js?v=28117"></script><script>if("serviceWorker"in navigator)addEventListener("load",function(){navigator.serviceWorker.register("sw.js").catch(function(){})})</script></body></html>

diff --git a/frame28134.css b/frame28134.css
@@ -164,3 +164,39 @@ body.cab-on[data-skin="feast"] #cabFrame::before{
   -webkit-mask-composite:xor;
   mask:linear-gradient(#fff 0 0) padding-box exclude,linear-gradient(#fff 0 0) border-box;
 }
+body.cab-on[data-skin="neon"] #cabFrame{
+  --ovh:calc(var(--frame-crown) * 1.2674);
+  container-type:inline-size;
+}
+/* v28.143: uniform-scale + clip. Source 1443x1058, hole 1214x616 at (114,310). */
+body.cab-on[data-skin="neon"] #cabFrame::before{
+  border-image:none;
+  border-image-source:none;
+  background-image:url(assets/skins/frame-midnight.webp?v=28143);
+  background-repeat:no-repeat;
+  background-origin:border-box;
+  background-clip:border-box;
+  background-size:calc(1443 / 1214 * (100cqi - 2 * var(--frame-rail))) auto;
+  background-position:calc(var(--frame-rail) - 114 / 1214 * (100cqi - 2 * var(--frame-rail))) calc((var(--frame-crown) + var(--ovh,0px)) - 310 / 1214 * (100cqi - 2 * var(--frame-rail)));
+  -webkit-mask:linear-gradient(#fff 0 0) padding-box,linear-gradient(#fff 0 0) border-box;
+  -webkit-mask-composite:xor;
+  mask:linear-gradient(#fff 0 0) padding-box exclude,linear-gradient(#fff 0 0) border-box;
+}
+body.cab-on[data-skin="crystal"] #cabFrame{
+  --ovh:calc(var(--frame-crown) * 1.0585);
+  container-type:inline-size;
+}
+/* v28.143: uniform-scale + clip. Source 1463x1060, hole 1230x620 at (117,284). */
+body.cab-on[data-skin="crystal"] #cabFrame::before{
+  border-image:none;
+  border-image-source:none;
+  background-image:url(assets/skins/frame-moon.webp?v=28143);
+  background-repeat:no-repeat;
+  background-origin:border-box;
+  background-clip:border-box;
+  background-size:calc(1463 / 1230 * (100cqi - 2 * var(--frame-rail))) auto;
+  background-position:calc(var(--frame-rail) - 117 / 1230 * (100cqi - 2 * var(--frame-rail))) calc((var(--frame-crown) + var(--ovh,0px)) - 284 / 1230 * (100cqi - 2 * var(--frame-rail)));
+  -webkit-mask:linear-gradient(#fff 0 0) padding-box,linear-gradient(#fff 0 0) border-box;
+  -webkit-mask-composite:xor;
+  mask:linear-gradient(#fff 0 0) padding-box exclude,linear-gradient(#fff 0 0) border-box;
+}

diff --git a/skinshop.js b/skinshop.js
@@ -55,7 +55,7 @@ function saveSkin(st){if(HAS_GAME_SAVE)return skSave(st);try{localStorage.setIte
 function applySkin(){if(HAS_GAME_APPLY)return skApply()}
 function onMach(){return !!window.CZM}
 function click(){try{if(window.sfx&&sfx.click)sfx.click()}catch(e){}}
-function pvUrl(id){return 'assets/skins/shop/'+PVT+'-'+(FRM[id]||id)+'.webp?v='+(id==='blossom'||id==='kabuto'||id==='feast'||id==='obsidian'?'28142':id==='jade'||id==='royal'?'28141':id==='tsukiyo'||id==='kitsune'?'28138':id==='beach'?'28137':'28134')}
+function pvUrl(id){return 'assets/skins/shop/'+PVT+'-'+(FRM[id]||id)+'.webp?v='+(id==='neon'||id==='crystal'?'28143':id==='blossom'||id==='kabuto'||id==='feast'||id==='obsidian'?'28142':id==='jade'||id==='royal'?'28141':id==='tsukiyo'||id==='kitsune'?'28138':id==='beach'?'28137':'28134')}
 function pv(k){return '<div class="pv2 pvimg s-'+k.id+'" aria-hidden="true" style="background-image:url('+pvUrl(k.id)+')"></div>'}
 function msg(t,k){
   if(typeof shMsg==='function'&&onMach()){shMsg(t,k);return}

diff --git a/settings.js b/settings.js
@@ -1,6 +1,6 @@
 /* 龍運金殿 settings & haptics (v241, 減少動態效果 v245): lobby 設定 sheet + 震動回饋 toggle in every theme */
 /* v259: version line in 設定 (APPV filled in by app/build.sh) */
-var DFP_WEBV='28.142',DFP_APPV='';
+var DFP_WEBV='28.143',DFP_APPV='';
 (function(){var LS=window.localStorage,g=function(k){try{return LS.getItem(k)}catch(e){return null}},s=function(k,v){try{LS.setItem(k,v)}catch(e){}};
 var CAN=typeof navigator!=='undefined'&&typeof navigator.vibrate==='function';
 function vibOn(){return CAN&&g('fs_vib')!=='0'}
